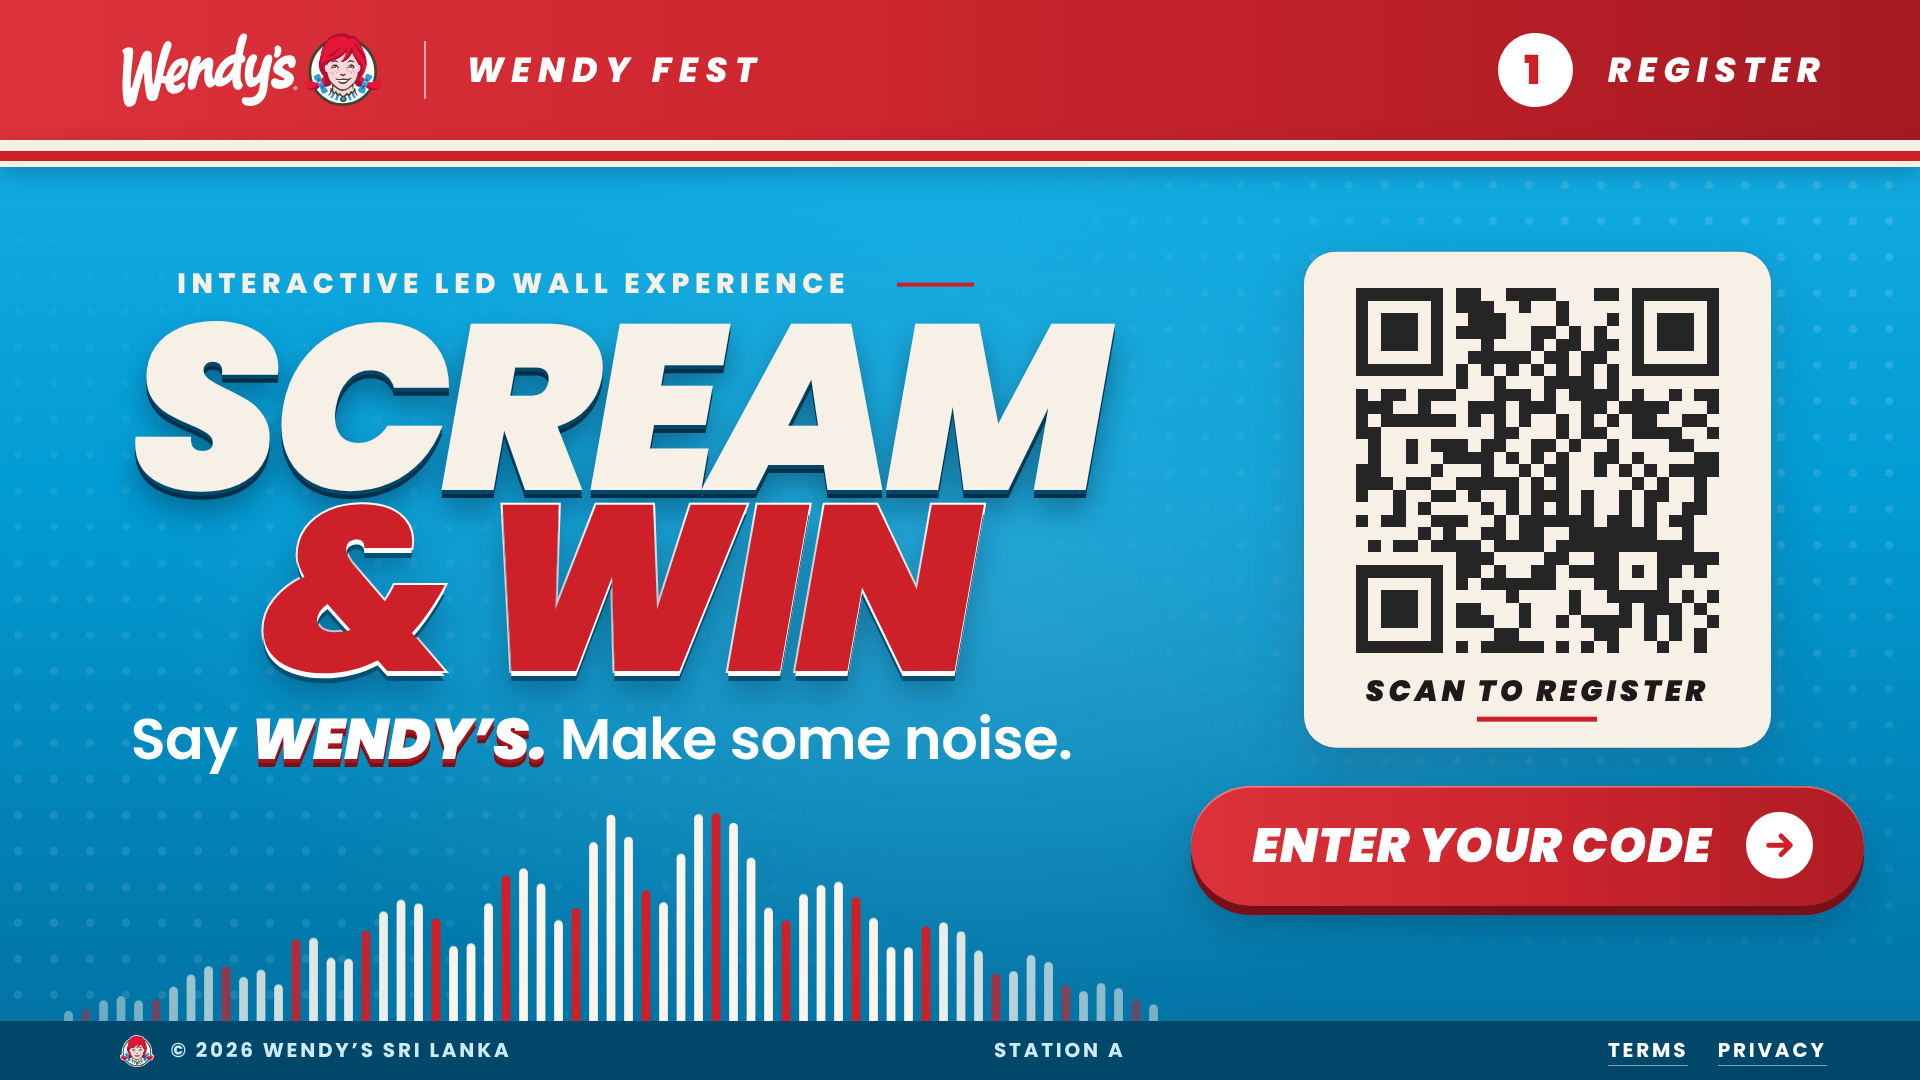
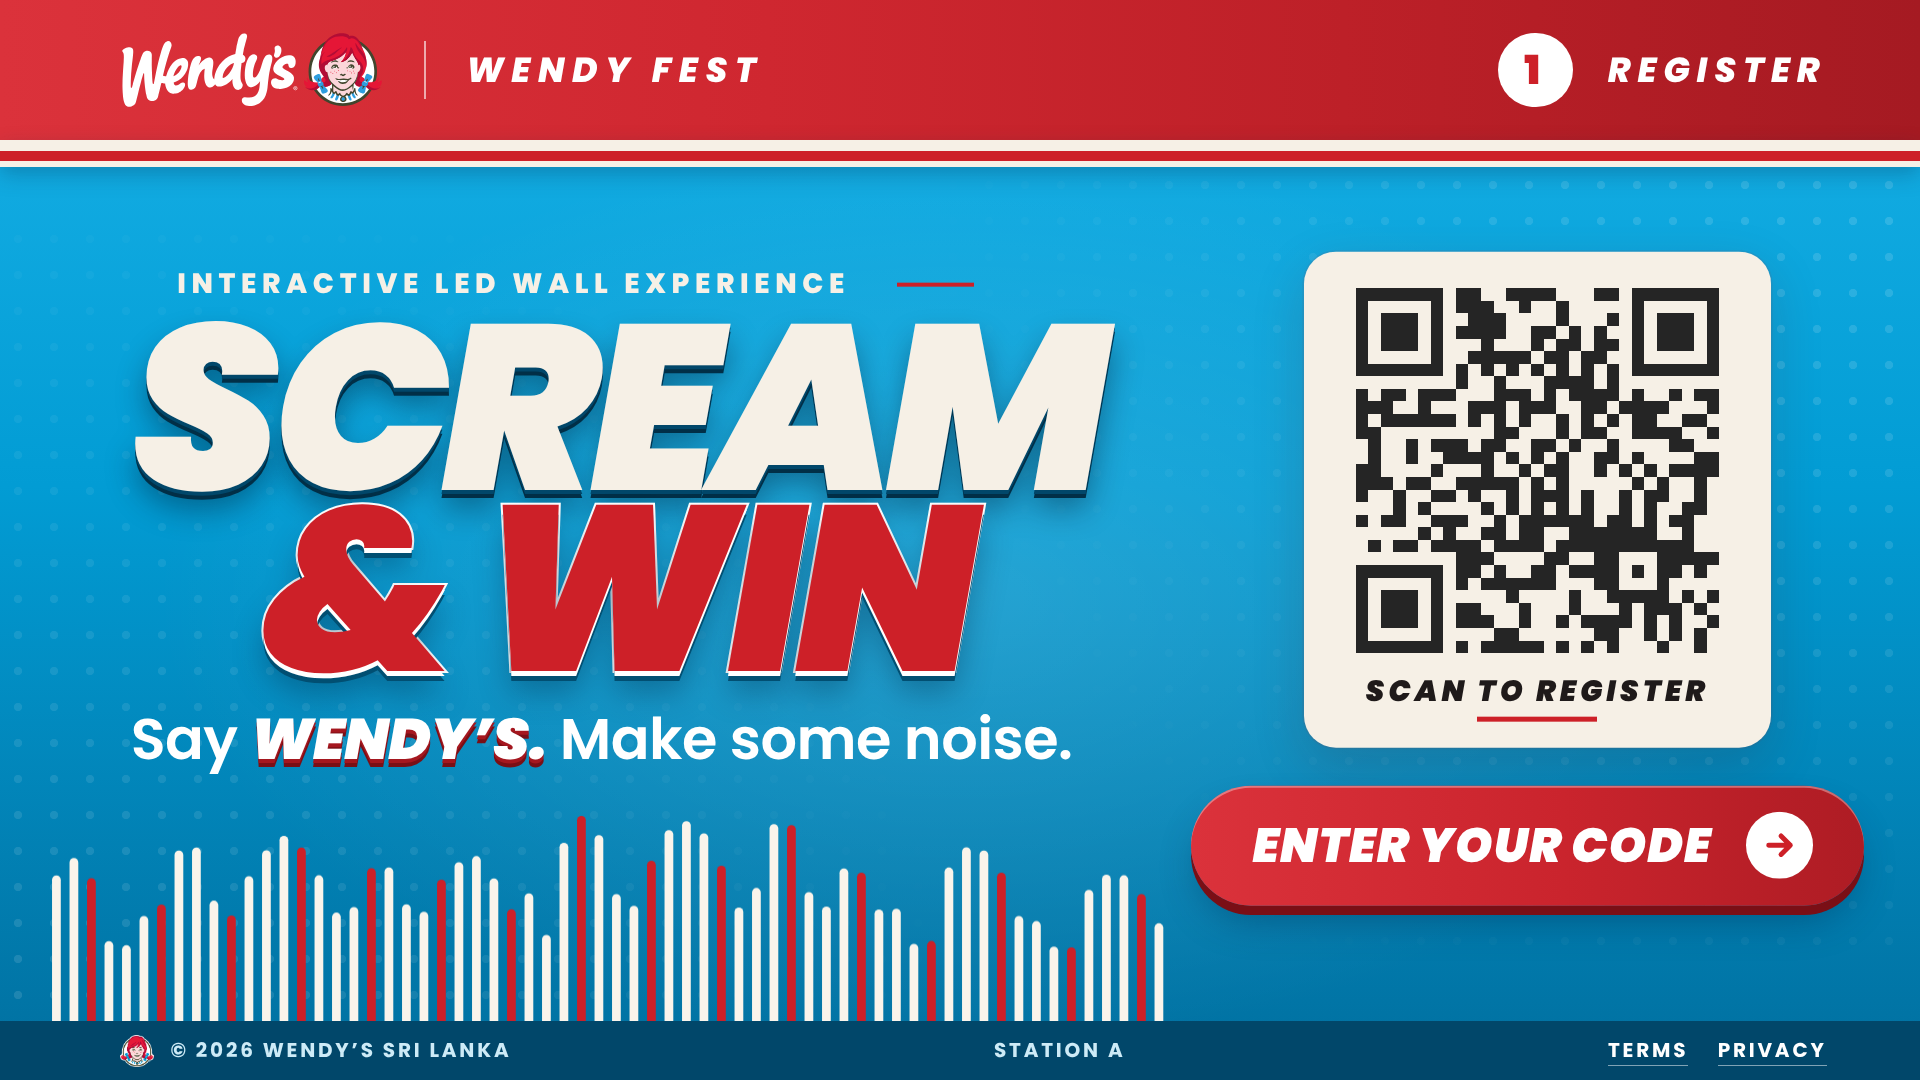
Retro Blue: sound effects (countdown beeps, go horn, screen whoosh, key clicks, voice ping, win fanfare, miss tone; muted while scoring; toggle in settings); countdown burst removed; Register wave full colour and even height
Claude-Session: https://claude.ai/code/session_015MHPvZ3kkn8jw5YatKY7r4

Changed region(s): [[0.0, 0.7333, 0.625, 0.9472]]

diff --git a/public/kiosk/scream-cream.html b/public/kiosk/scream-cream.html
@@ -385,7 +385,6 @@ body.tt4 .idle .h1 .amp, body.tt4 .idle .h1 .red { color:#FFC72C !important; tex
       <i class="abs rule"></i>
       <div class="dots" id="dots"><span class="on">3</span><em>•</em><span>2</span><em>•</em><span>1</span></div>
       <div class="abs" id="cnt">3</div>
-      <svg class="abs" id="cd-burst" viewBox="0 0 40 40" fill="none" stroke="#CD2028" stroke-width="3" stroke-linecap="round"><path d="M6 20 9 8M14 24 26 6M18 30 34 26"/><circle cx="36" cy="10" r="3" fill="#29C9E0" stroke="none"/></svg>
     </div>
     <div class="box" id="go-meter" style="display:none">
       <canvas class="abs" id="live-cv"></canvas>
@@ -427,6 +426,7 @@ body.tt4 .idle .h1 .amp, body.tt4 .idle .h1 .red { color:#FFC72C !important; tex
     <div class="eyebrow" style="justify-content:flex-start">Station settings</div>
     <label>Microphone (this screen)</label><select id="mic"></select>
     <label>Live level</label><div class="lvl"><div id="lvl-set"></div></div><div id="db-set" style="margin-top:.6vmin">— dB</div>
+    <label>Sound effects</label><select id="sfx-mode"><option value="on">On</option><option value="off">Off</option></select>
     <label>Clarity scoring</label><select id="judge-mode"><option value="auto">Auto (speech recognition, Chrome + internet)</option><option value="host">Host judges after each scream</option></select>
     <label>Scoring (from admin)</label><div id="thr-info">—</div>
     <p style="opacity:.7;margin-top:2vmin">Calibrate: have a staff member scream at the real distance. Their peak should land near 100. Adjust dB floor/ceiling in Admin if screams never reach it or always do.</p>
@@ -546,8 +546,8 @@ body.tt4 .idle .h1 .amp, body.tt4 .idle .h1 .red { color:#FFC72C !important; tex
     for (let i = 0; i < n; i++) {
       const x = (i + frac) * gap + gap * .25, u = (x + w / 2) / W;
       if (u < 0 || u > 1) continue;
-      const env = Math.exp(-Math.pow((u - .58) / .27, 2)) * .95 + Math.exp(-Math.pow((u - .22) / .12, 2)) * .25 + .05;
-      const v = Math.min(1, env * VOICE.hist[i] * 1.12), h = Math.max(w, v * H * .92), a = Math.min(1, .3 + env * 1.2);
+      const env = .82 + .18 * Math.exp(-Math.pow((u - .5) / .35, 2));   // even height across, no fade-out
+      const v = Math.min(1, env * VOICE.hist[i] * 1.12), h = Math.max(w, v * H * .92), a = 1;
       const red = (VOICE.count - i) % 4 === 0;
       ctx.fillStyle = red ? `rgba(205,32,40,${a.toFixed(2)})` : `rgba(250,244,235,${a.toFixed(2)})`;
       ctx.beginPath(); ctx.roundRect(x, H - h, w, h + w, w / 2); ctx.fill();
@@ -610,6 +610,33 @@ body.tt4 .idle .h1 .amp, body.tt4 .idle .h1 .red { color:#FFC72C !important; tex
     ctx.lineWidth = 2.5 * fd; ctx.beginPath(); ctx.moveTo(px, py); ctx.lineTo(px - 34 * U, py); ctx.lineTo(tip.x, tip.y); ctx.stroke();
     ctx.fillStyle = "#CD2028"; ctx.beginPath(); ctx.arc(tip.x, tip.y, 6 * fd, 0, 7); ctx.fill();
   }
+  // ---------- sound effects (Web Audio, synthesized; silent while the mic is scoring) ----------
+  const SFX = (() => {
+    let ac = null, master = null; const on = () => (localStorage.getItem("wf_sfx") || "on") === "on";
+    const ctx = () => { if (!ac) { ac = new (window.AudioContext || window.webkitAudioContext)(); master = ac.createGain(); master.gain.value = .5; master.connect(ac.destination); } if (ac.state === "suspended") ac.resume(); return ac; };
+    const tone = (f, t0, d, { type = "sine", vol = .5, to = null, attack = .005 } = {}) => { const a = ctx(), o = a.createOscillator(), g = a.createGain(), t = a.currentTime + t0;
+      o.type = type; o.frequency.setValueAtTime(f, t); if (to) o.frequency.exponentialRampToValueAtTime(to, t + d);
+      g.gain.setValueAtTime(0, t); g.gain.linearRampToValueAtTime(vol, t + attack); g.gain.exponentialRampToValueAtTime(.0001, t + d); o.connect(g).connect(master); o.start(t); o.stop(t + d + .05); };
+    const noise = (t0, d, { vol = .3, from = 800, to = 3000, q = .8 } = {}) => { const a = ctx(), n = a.sampleRate * d, b = a.createBuffer(1, n, a.sampleRate), x = b.getChannelData(0); for (let i = 0; i < n; i++) x[i] = Math.random() * 2 - 1;
+      const src = a.createBufferSource(), f = a.createBiquadFilter(), g = a.createGain(), t = a.currentTime + t0; src.buffer = b; f.type = "bandpass"; f.Q.value = q;
+      f.frequency.setValueAtTime(from, t); f.frequency.exponentialRampToValueAtTime(to, t + d); g.gain.setValueAtTime(0, t); g.gain.linearRampToValueAtTime(vol, t + d * .3); g.gain.exponentialRampToValueAtTime(.0001, t + d);
+      src.connect(f).connect(g).connect(master); src.start(t); src.stop(t + d + .05); };
+    const play = (fn) => { if (!on() || windowOpen) return; try { fn(); } catch {} };
+    return {
+      whoosh: () => play(() => noise(0, .32, { vol: .22, from: 500, to: 3200 })),
+      click: () => play(() => tone(1500, 0, .045, { type: "triangle", vol: .22 })),
+      tick: () => play(() => { tone(660, 0, .22, { type: "square", vol: .16 }); tone(1320, 0, .12, { vol: .1 }); }),
+      last: () => play(() => { tone(990, 0, .3, { type: "square", vol: .18 }); tone(1980, 0, .16, { vol: .1 }); }),
+      go: () => play(() => { [523, 659, 784].forEach((f) => tone(f, 0, .55, { type: "sawtooth", vol: .1, attack: .02 })); tone(1046, .05, .5, { type: "square", vol: .08 }); noise(0, .4, { vol: .12, from: 2000, to: 6000 }); }),
+      voice: () => play(() => { tone(880, 0, .12, { vol: .2 }); tone(1320, .1, .18, { vol: .2 }); }),
+      win: () => play(() => { [[523, 0], [659, .12], [784, .24], [1046, .36]].forEach(([f, t]) => tone(f, t, .35, { type: "square", vol: .12 })); [523, 659, 784, 1046].forEach((f) => tone(f, .5, 1.1, { type: "sawtooth", vol: .06, attack: .03 })); noise(.48, .9, { vol: .1, from: 3000, to: 8000, q: .5 }); }),
+      lose: () => play(() => { tone(392, 0, .35, { type: "triangle", vol: .22, to: 370 }); tone(330, .32, .6, { type: "triangle", vol: .22, to: 262 }); }),
+      error: () => play(() => { tone(220, 0, .14, { type: "square", vol: .14 }); tone(185, .14, .2, { type: "square", vol: .14 }); }),
+      unlock: () => { try { ctx(); } catch {} },
+    };
+  })();
+  $("sfx-mode").value = localStorage.getItem("wf_sfx") || "on"; $("sfx-mode").onchange = () => { localStorage.setItem("wf_sfx", $("sfx-mode").value); SFX.click(); };
+  addEventListener("pointerdown", SFX.unlock, { once: true }); addEventListener("keydown", SFX.unlock, { once: true });
   // ---------- mic check: listen for a voice (e.g. "Hello"), then start automatically ----------
   let VD = null;
   function resetVoiceCheck() { const now = performance.now(); VD = { t0: now, last: now, base: 0, n: 0, ms: 0, fired: false }; }
@@ -620,7 +647,7 @@ body.tt4 .idle .h1 .amp, body.tt4 .idle .h1 .red { color:#FFC72C !important; tex
     const thr = Math.max(18, VD.base + 14);
     VD.ms = pct > thr ? VD.ms + dt : Math.max(0, VD.ms - dt * .6);
     if (VD.ms > 280) {
-      VD.fired = true; $("mic-status").textContent = "Voice detected"; $("mic-pill").classList.add("heard-ok");
+      VD.fired = true; SFX.voice(); $("mic-status").textContent = "Voice detected"; $("mic-pill").classList.add("heard-ok");
       setTimeout(() => { if (mode === "ready" && $("s-ready").classList.contains("on")) $("go").click(); }, 800);
     }
   }
@@ -722,7 +749,7 @@ body.tt4 .idle .h1 .amp, body.tt4 .idle .h1 .red { color:#FFC72C !important; tex
   const SVG_BKSP = '<svg viewBox="0 0 24 24" fill="none" stroke="#fff" stroke-width="2.2" stroke-linejoin="round" stroke-linecap="round"><path d="M21 5H9l-6.5 7L9 19h12z"/><path d="M12.5 9.5l5 5M17.5 9.5l-5 5"/></svg>';
   const typeKey = (k) => { if (codeEl.value.length < 6) { codeEl.value += k; paintBoxes(); } K.resetIdle(60000, goIdle); };
   const krow = (cls) => { const r = document.createElement("div"); r.className = "krow " + cls; $("kbd").appendChild(r); return r; };
-  const key = (r, label, fn, cls = "") => { const b = document.createElement("button"); b.className = cls; b.innerHTML = label; b.onclick = fn; r.appendChild(b); return b; };
+  const key = (r, label, fn, cls = "") => { const b = document.createElement("button"); b.className = cls; b.innerHTML = label; b.onclick = (e) => { SFX.click(); fn(e); }; r.appendChild(b); return b; };
   const r1 = krow("r1"), r2 = krow("r2"), r3 = krow("r3"), r4 = krow("r4");
   const r1keys = [..."QWERTYUIOP"].map((k) => key(r1, k, (e) => typeKey(e.currentTarget.textContent)));
   [..."ASDFGHJKL"].forEach((k) => key(r2, k, () => typeKey(k)));
@@ -744,7 +771,7 @@ body.tt4 .idle .h1 .amp, body.tt4 .idle .h1 .red { color:#FFC72C !important; tex
       $("r-name").textContent = guest.firstName; mode = "ready"; $("mic-pill").classList.remove("heard-ok"); K.show("s-ready"); if (await startAudio()) $("mic-status").textContent = "Mic connected · say “Hello”"; resetVoiceCheck(); K.resetIdle(90000, goIdle);
     } catch (e) { $("code-msg").textContent = e.message; shakeBoxes(); }
   }
-  function shakeBoxes() { [...$("boxes").children].forEach((b) => { b.classList.add("err"); setTimeout(() => b.classList.remove("err"), 500); }); }
+  function shakeBoxes() { SFX.error(); [...$("boxes").children].forEach((b) => { b.classList.add("err"); setTimeout(() => b.classList.remove("err"), 500); }); }
 
   // ---------- flow ----------
   function goIdle() { K.resetIdle(0); stopRecog(); windowOpen = false; guest = null; codeEl.value = ""; paintBoxes(); $("code-msg").textContent = ""; mode = "idle"; document.querySelectorAll(".confetti").forEach((c) => c.remove()); K.show("s-idle"); }
@@ -755,7 +782,7 @@ body.tt4 .idle .h1 .amp, body.tt4 .idle .h1 .red { color:#FFC72C !important; tex
   function setStep(n, label) { $("step-n").textContent = n; $("step-l").textContent = label; const k = +n; $("track6").classList.add("hide"); [...$("track6").children].forEach((el, i) => { el.classList.toggle("done", i < k - 1); el.classList.toggle("now", i === k - 1); }); }
   function enter(box) { if (!box) return; box.classList.remove("enter"); [...box.children].forEach((el, i) => el.style.setProperty("--i", i)); void box.offsetWidth; box.classList.add("enter"); }
   const restart = (el, cls) => { el.classList.remove(cls); void el.offsetWidth; el.classList.add(cls); };
-  document.addEventListener("screen", (e) => { setTimeout(fitText, 0); const sc = $(e.detail); enter(e.detail === "s-go" ? $("go-count") : sc && sc.querySelector(".box")); if (STEPS[e.detail]) setStep(...STEPS[e.detail]); if (e.detail === "s-code") setTimeout(() => codeEl.focus({ preventScroll: true }), 50); });
+  document.addEventListener("screen", (e) => { if (e.detail !== "s-result") SFX.whoosh(); setTimeout(fitText, 0); const sc = $(e.detail); enter(e.detail === "s-go" ? $("go-count") : sc && sc.querySelector(".box")); if (STEPS[e.detail]) setStep(...STEPS[e.detail]); if (e.detail === "s-code") setTimeout(() => codeEl.focus({ preventScroll: true }), 50); });
   const wait = (ms) => new Promise((r) => setTimeout(r, ms));
   $("go").onclick = async () => {
     if (mode !== "ready") return;
@@ -763,11 +790,12 @@ body.tt4 .idle .h1 .amp, body.tt4 .idle .h1 .red { color:#FFC72C !important; tex
     K.resetIdle(0); K.show("s-go"); $("go-count").style.display = "block"; $("go-meter").style.display = "none"; mode = "count";
     const dots = [...$("dots").querySelectorAll("span")];
     for (let n = 3; n >= 1; n--) {
-      $("cnt").textContent = n; restart($("cnt"), "pop"); restart($("cd-burst"), "pop"); dots.forEach((d, i) => d.classList.toggle("on", i <= 3 - n));
+      $("cnt").textContent = n; restart($("cnt"), "pop"); n > 1 ? SFX.tick() : SFX.last(); dots.forEach((d, i) => d.classList.toggle("on", i <= 3 - n));
       if (n === 2) startRecog();
       const t0 = performance.now(); while (performance.now() - t0 < 1000) { countPct = ((4 - n) - 1 + (performance.now() - t0) / 1000) / 3 * 100; await wait(16); }
     }
     $("go-count").style.display = "none"; $("go-meter").style.display = "block"; setStep("5", "Live"); fitText(); enter($("go-meter"));
+    SFX.go(); await wait(320);
     peakDb = -100; gaugeShown = 0; windowOpen = true; mode = "scream";
     const dur = 10000, t0 = performance.now();   // Studio Cream gives guests up to 10 s; it ends early once a clear "Wendy's" is heard
     while (performance.now() - t0 < dur) {
@@ -806,11 +834,11 @@ body.tt4 .idle .h1 .amp, body.tt4 .idle .h1 .red { color:#FFC72C !important; tex
       renderDetail(r.couponPoolEmpty ? "You won! The reward pool is empty, so please see a host." : "Fresh, never frozen. Just like that scream.", r);
       if (r.coupon) { $("res-code").textContent = r.coupon.code; $("res-label").textContent = r.coupon.label; }
       $("qr-label").innerHTML = "Save your<br>reward";
-      $("flash").classList.remove("go"); void $("flash").offsetWidth; $("flash").classList.add("go"); confetti();
+      $("flash").classList.remove("go"); void $("flash").offsetWidth; $("flash").classList.add("go"); confetti(); SFX.win();
     } else {
       $("res-title").textContent = r.loudness < r.accuracy ? "Louder next time." : "We heard… something.";
       renderDetail(r.loudness < 40 ? "Louder! Colombo traffic is louder than that." : r.accuracy < 40 ? "The meter heard you. It just didn’t hear “Wendy’s”." : "So close. One more “Wendy’s” and it’s yours.", r);
-      $("qr-label").innerHTML = "Scan for<br>your pass";
+      $("qr-label").innerHTML = "Scan for<br>your pass"; SFX.lose();
     }
     $("qr-profile").src = `/api/qr?text=${encodeURIComponent(r.profileUrl)}`;
     K.resetIdle(30000, goIdle);
